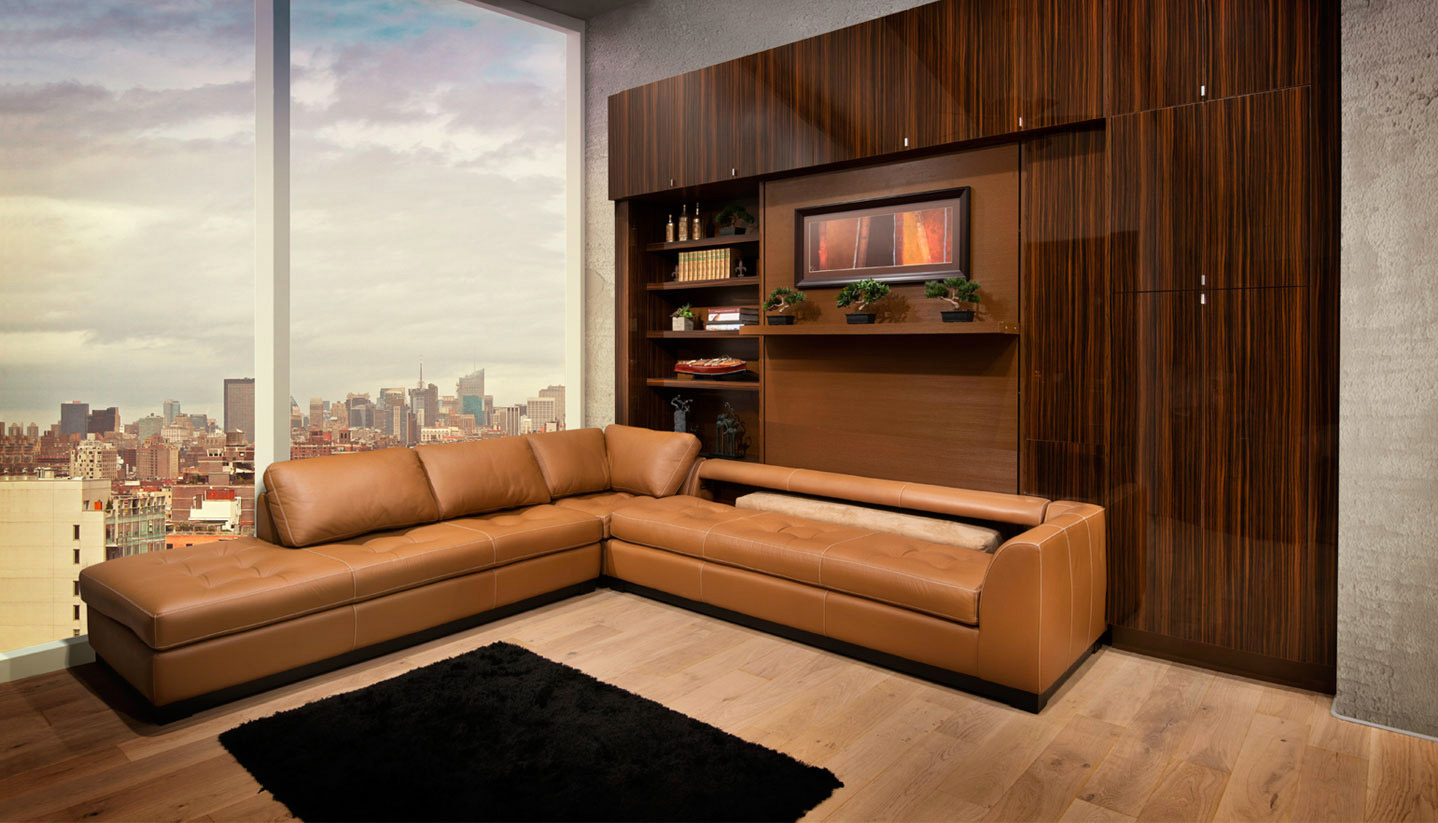
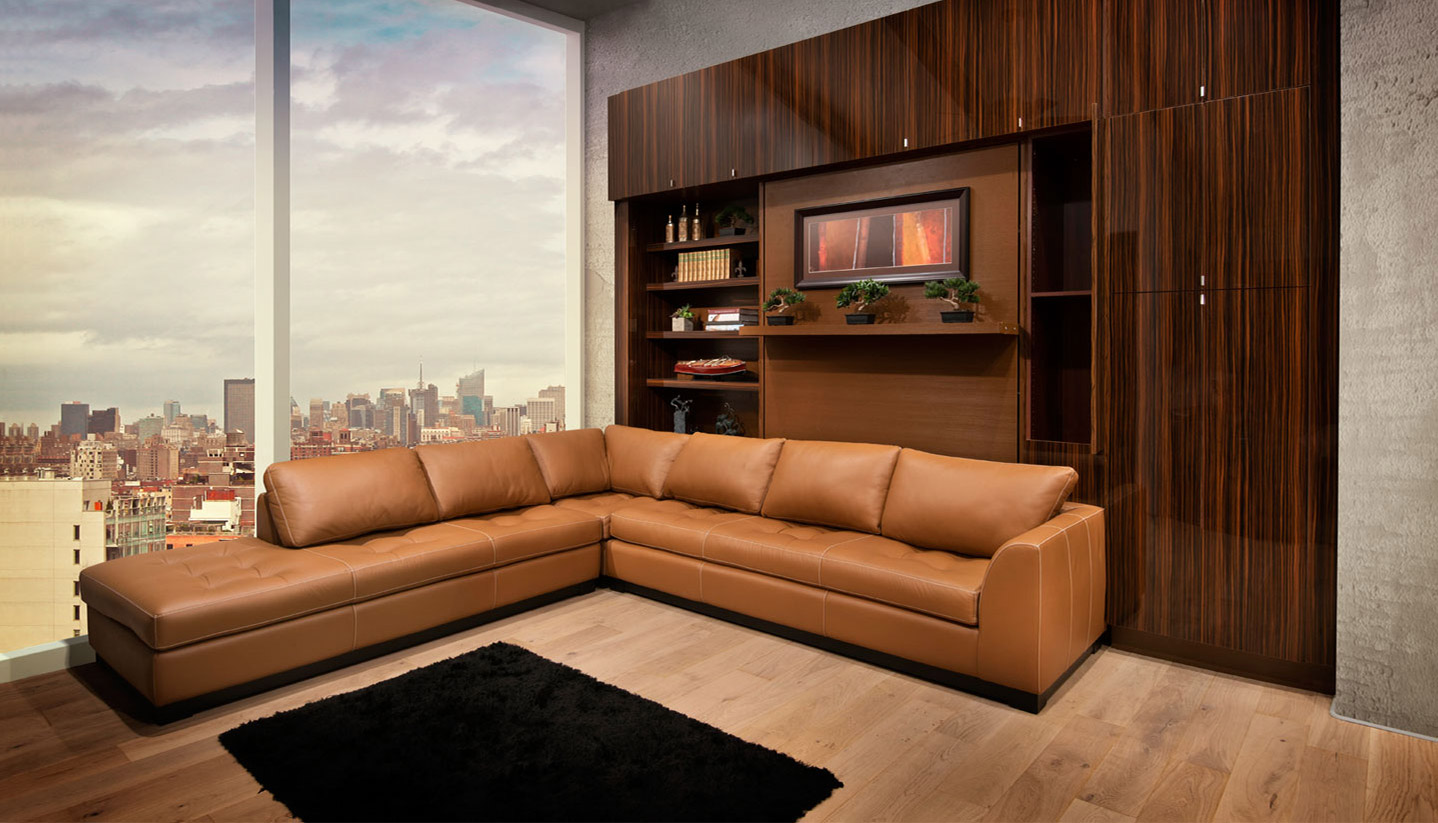
update caption placement

diff --git a/css/stylesheet.css b/css/stylesheet.css
@@ -185,13 +185,15 @@ body {
     body header.solution .owl-carousel .owl-item > div.slide-1-2 {
       background-image: url("../img/home/home-1-2.jpg"); }
       body header.solution .owl-carousel .owl-item > div.slide-1-2 .caption {
+        left: 60%;
+        top: 25%; }
+    body header.solution .owl-carousel .owl-item > div.slide-1-3 {
+      background-image: url("../img/home/home-1-3.jpg"); }
+      body header.solution .owl-carousel .owl-item > div.slide-1-3 .caption {
         left: 40%;
         top: 50%; }
     body header.solution .owl-carousel .owl-item > div.slide-2 {
       background-image: url("../img/home/home-2.jpg"); }
-      body header.solution .owl-carousel .owl-item > div.slide-2 .caption {
-        left: 62%;
-        top: 30%; }
     body header.solution .owl-carousel .owl-item > div.slide-3 {
       background-image: url("../img/home/home-3.jpg"); }
     body header.solution .owl-carousel .owl-item > div.slide-4 {
@@ -219,6 +221,9 @@ body {
         top: 20%; }
     body header.solution .owl-carousel .owl-item > div.slide-10 {
       background-image: url("../img/home/home-10.jpg"); }
+      body header.solution .owl-carousel .owl-item > div.slide-10 .caption {
+        left: 50%;
+        top: 40%; }
     body header.solution .owl-carousel .owl-item > div .caption {
       background-color: rgba(55, 49, 45, 0.8);
       box-sizing: border-box;

diff --git a/scss/stylesheet.scss b/scss/stylesheet.scss
@@ -169,8 +169,9 @@ body {
 
 						/* new assets*/
 						&.slide-1 { background-image: url('../img/home/home-1.jpg'); }
-						&.slide-1-2 { background-image: url('../img/home/home-1-2.jpg'); .caption { left: 40%; top: 50%; } }
-						&.slide-2 { background-image: url('../img/home/home-2.jpg'); .caption { left: 62%; top: 30%; } }
+						&.slide-1-2 { background-image: url('../img/home/home-1-2.jpg'); .caption { left: 60%; top: 25%; } }
+						&.slide-1-3 { background-image: url('../img/home/home-1-3.jpg'); .caption { left: 40%; top: 50%; } }
+						&.slide-2 { background-image: url('../img/home/home-2.jpg'); }
 						&.slide-3 { background-image: url('../img/home/home-3.jpg'); }
 						&.slide-4 { background-image: url('../img/home/home-4.jpg'); }
 						&.slide-5 { background-image: url('../img/home/home-5.jpg'); }
@@ -179,7 +180,7 @@ body {
 						&.slide-7-2 { background-image: url('../img/home/home-7-2.jpg'); .caption { left: 45%; top: 20%; } }
 						&.slide-8 { background-image: url('../img/home/home-8.jpg'); }
 						&.slide-9 { background-image: url('../img/home/home-9.jpg'); .caption { left: 20%; top: 20%; } }
-						&.slide-10 { background-image: url('../img/home/home-10.jpg'); }
+						&.slide-10 { background-image: url('../img/home/home-10.jpg'); .caption { left: 50%; top: 40%; } }
 
 						.caption {
 							$bColor: rgba(55, 49, 45, 0.8);

diff --git a/includes/page-solution.html b/includes/page-solution.html
@@ -15,8 +15,9 @@
 <header class="solution">
     <div class="owl-carousel owl-theme animation">
         <div class="slide-1"></div>
-        <div class="slide-1-2"><div class="caption arrow">Store your bolster here</div></div>
-        <div class="slide-2"><div class="caption arrow">Store your couch cushions here at night</div></div>
+        <div class="slide-1-2"><div class="caption arrow">Store your couch cushions here at night</div></div>
+        <div class="slide-1-3"><div class="caption arrow">Store your bolster here</div></div>
+        <div class="slide-2"></div>
         <div class="slide-3"></div>
         <div class="slide-4"></div>
         <div class="slide-5"></div>

diff --git a/js/application.js b/js/application.js
@@ -89,7 +89,7 @@ function updateSolutionPage(){
 		//Import texture data from JSON file
 		$('.solution .owl-carousel.animation').owlCarousel({
 			animateOut: 'fadeOut',
-			autoplay: true,
+			
 			autoplayTimeout: 2500,
 			items: 1,
 			loop: true,
